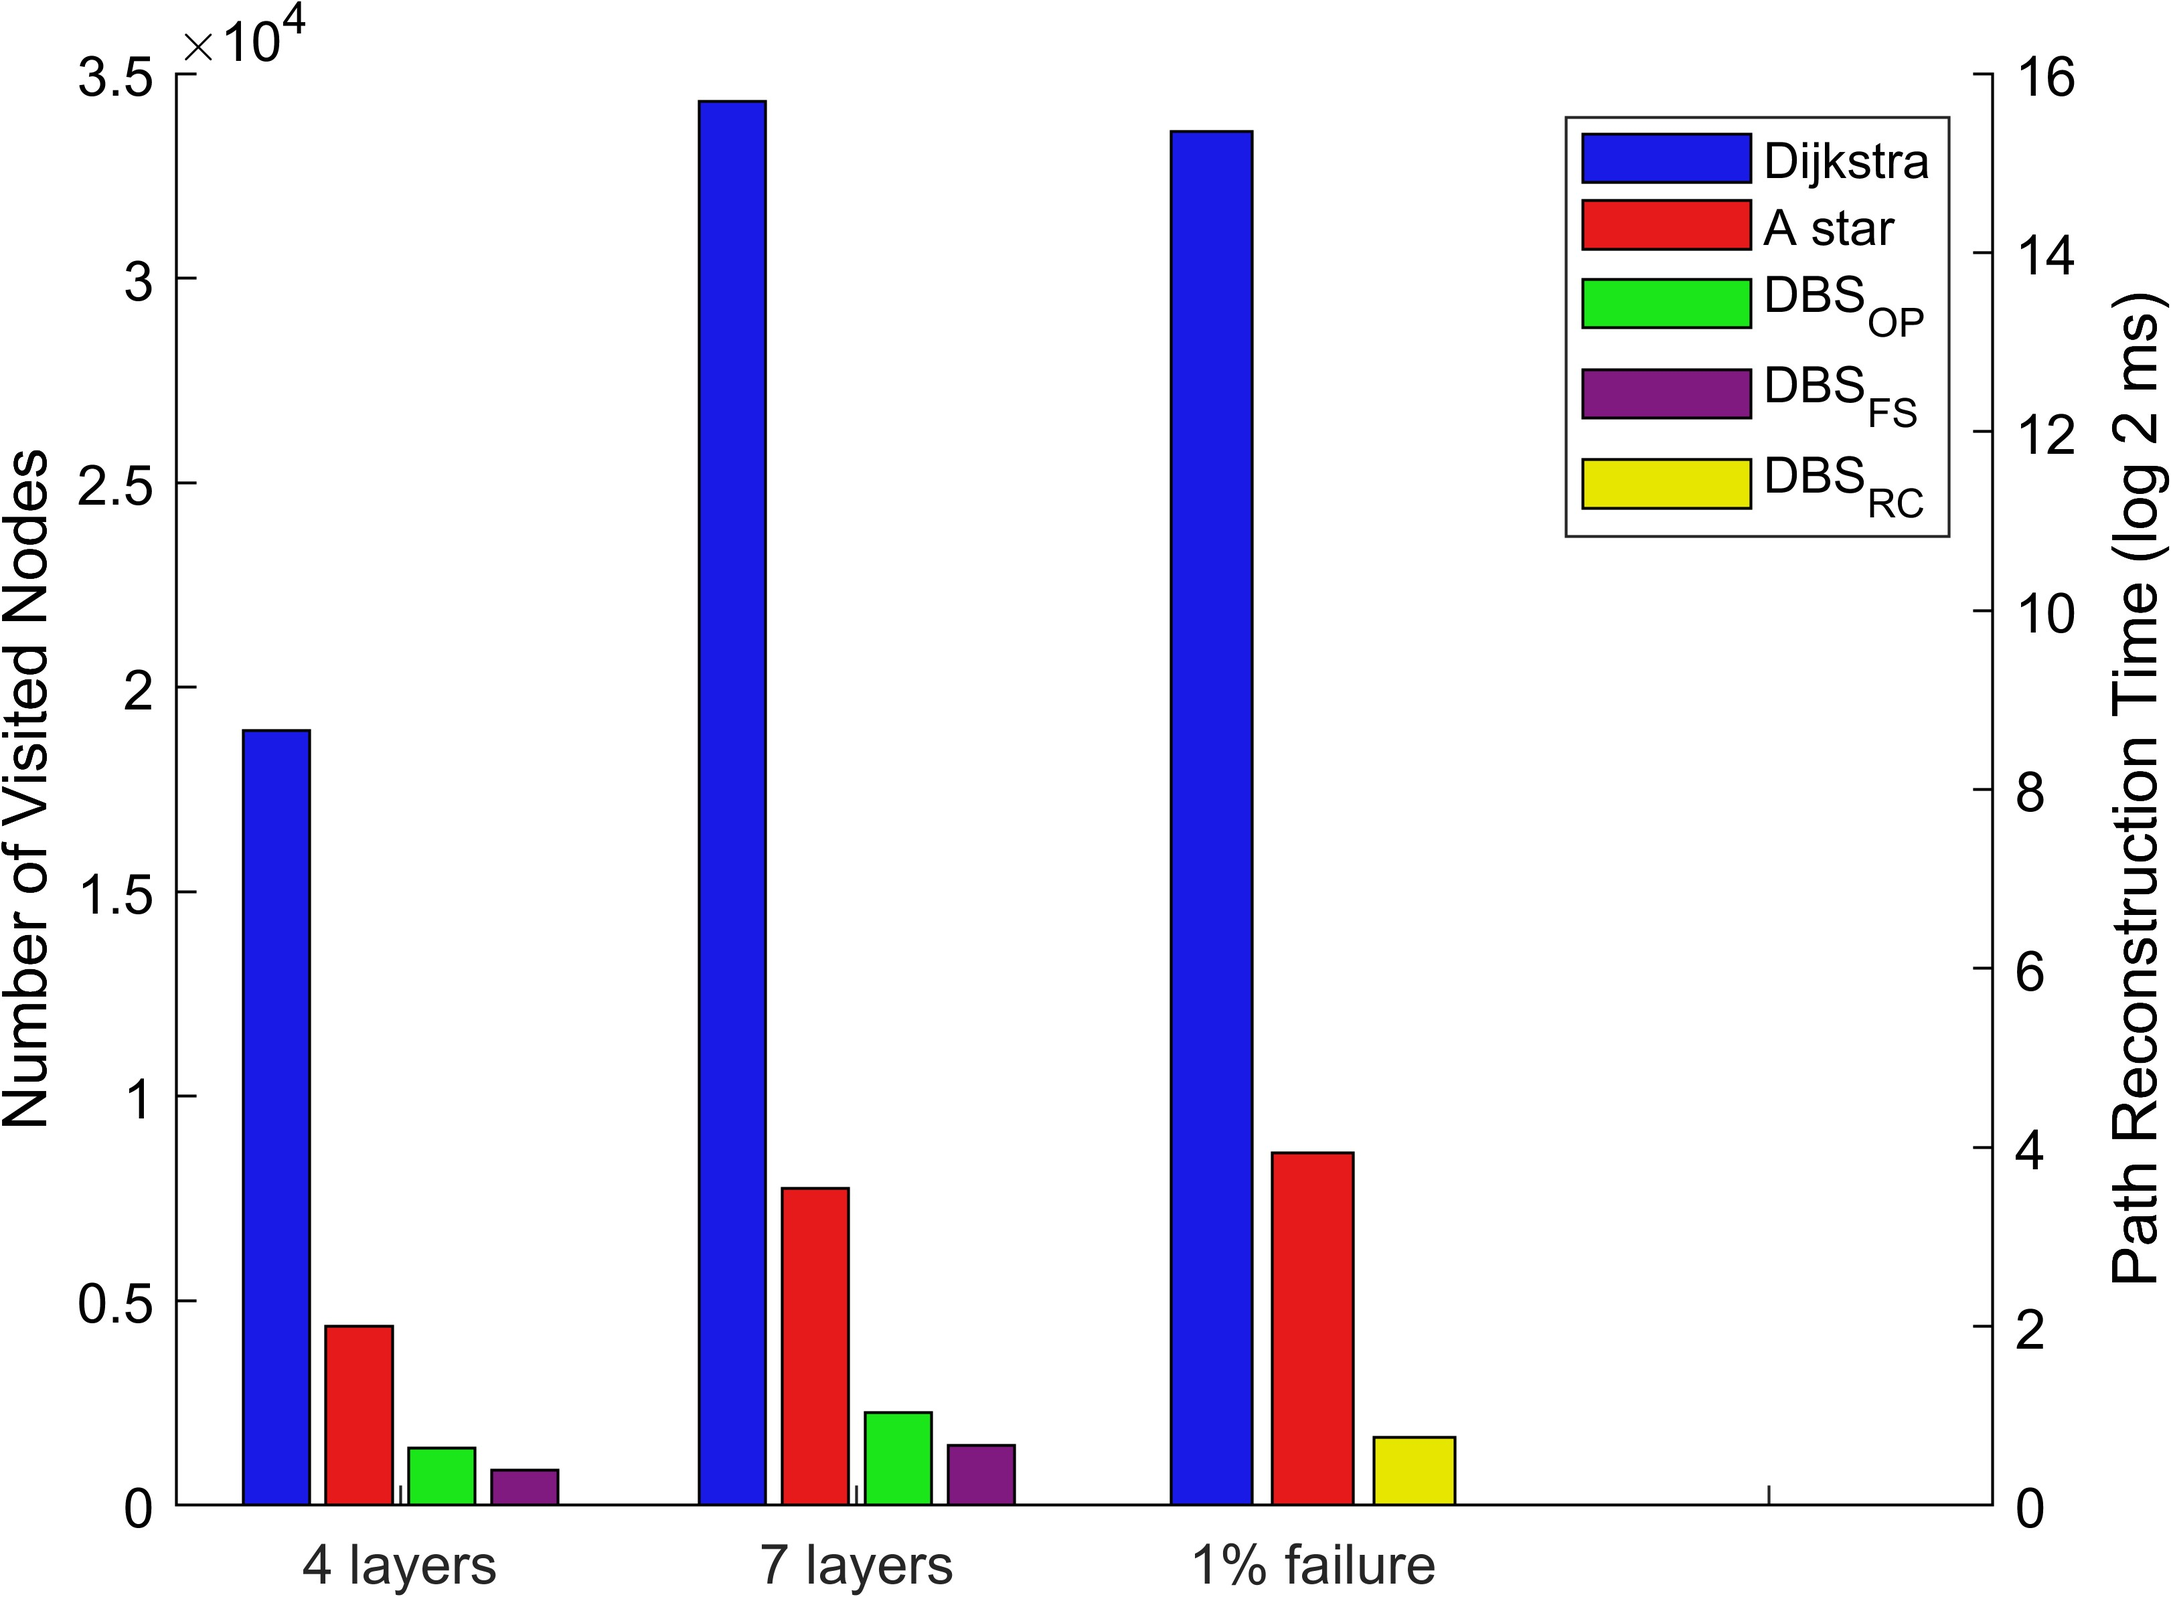
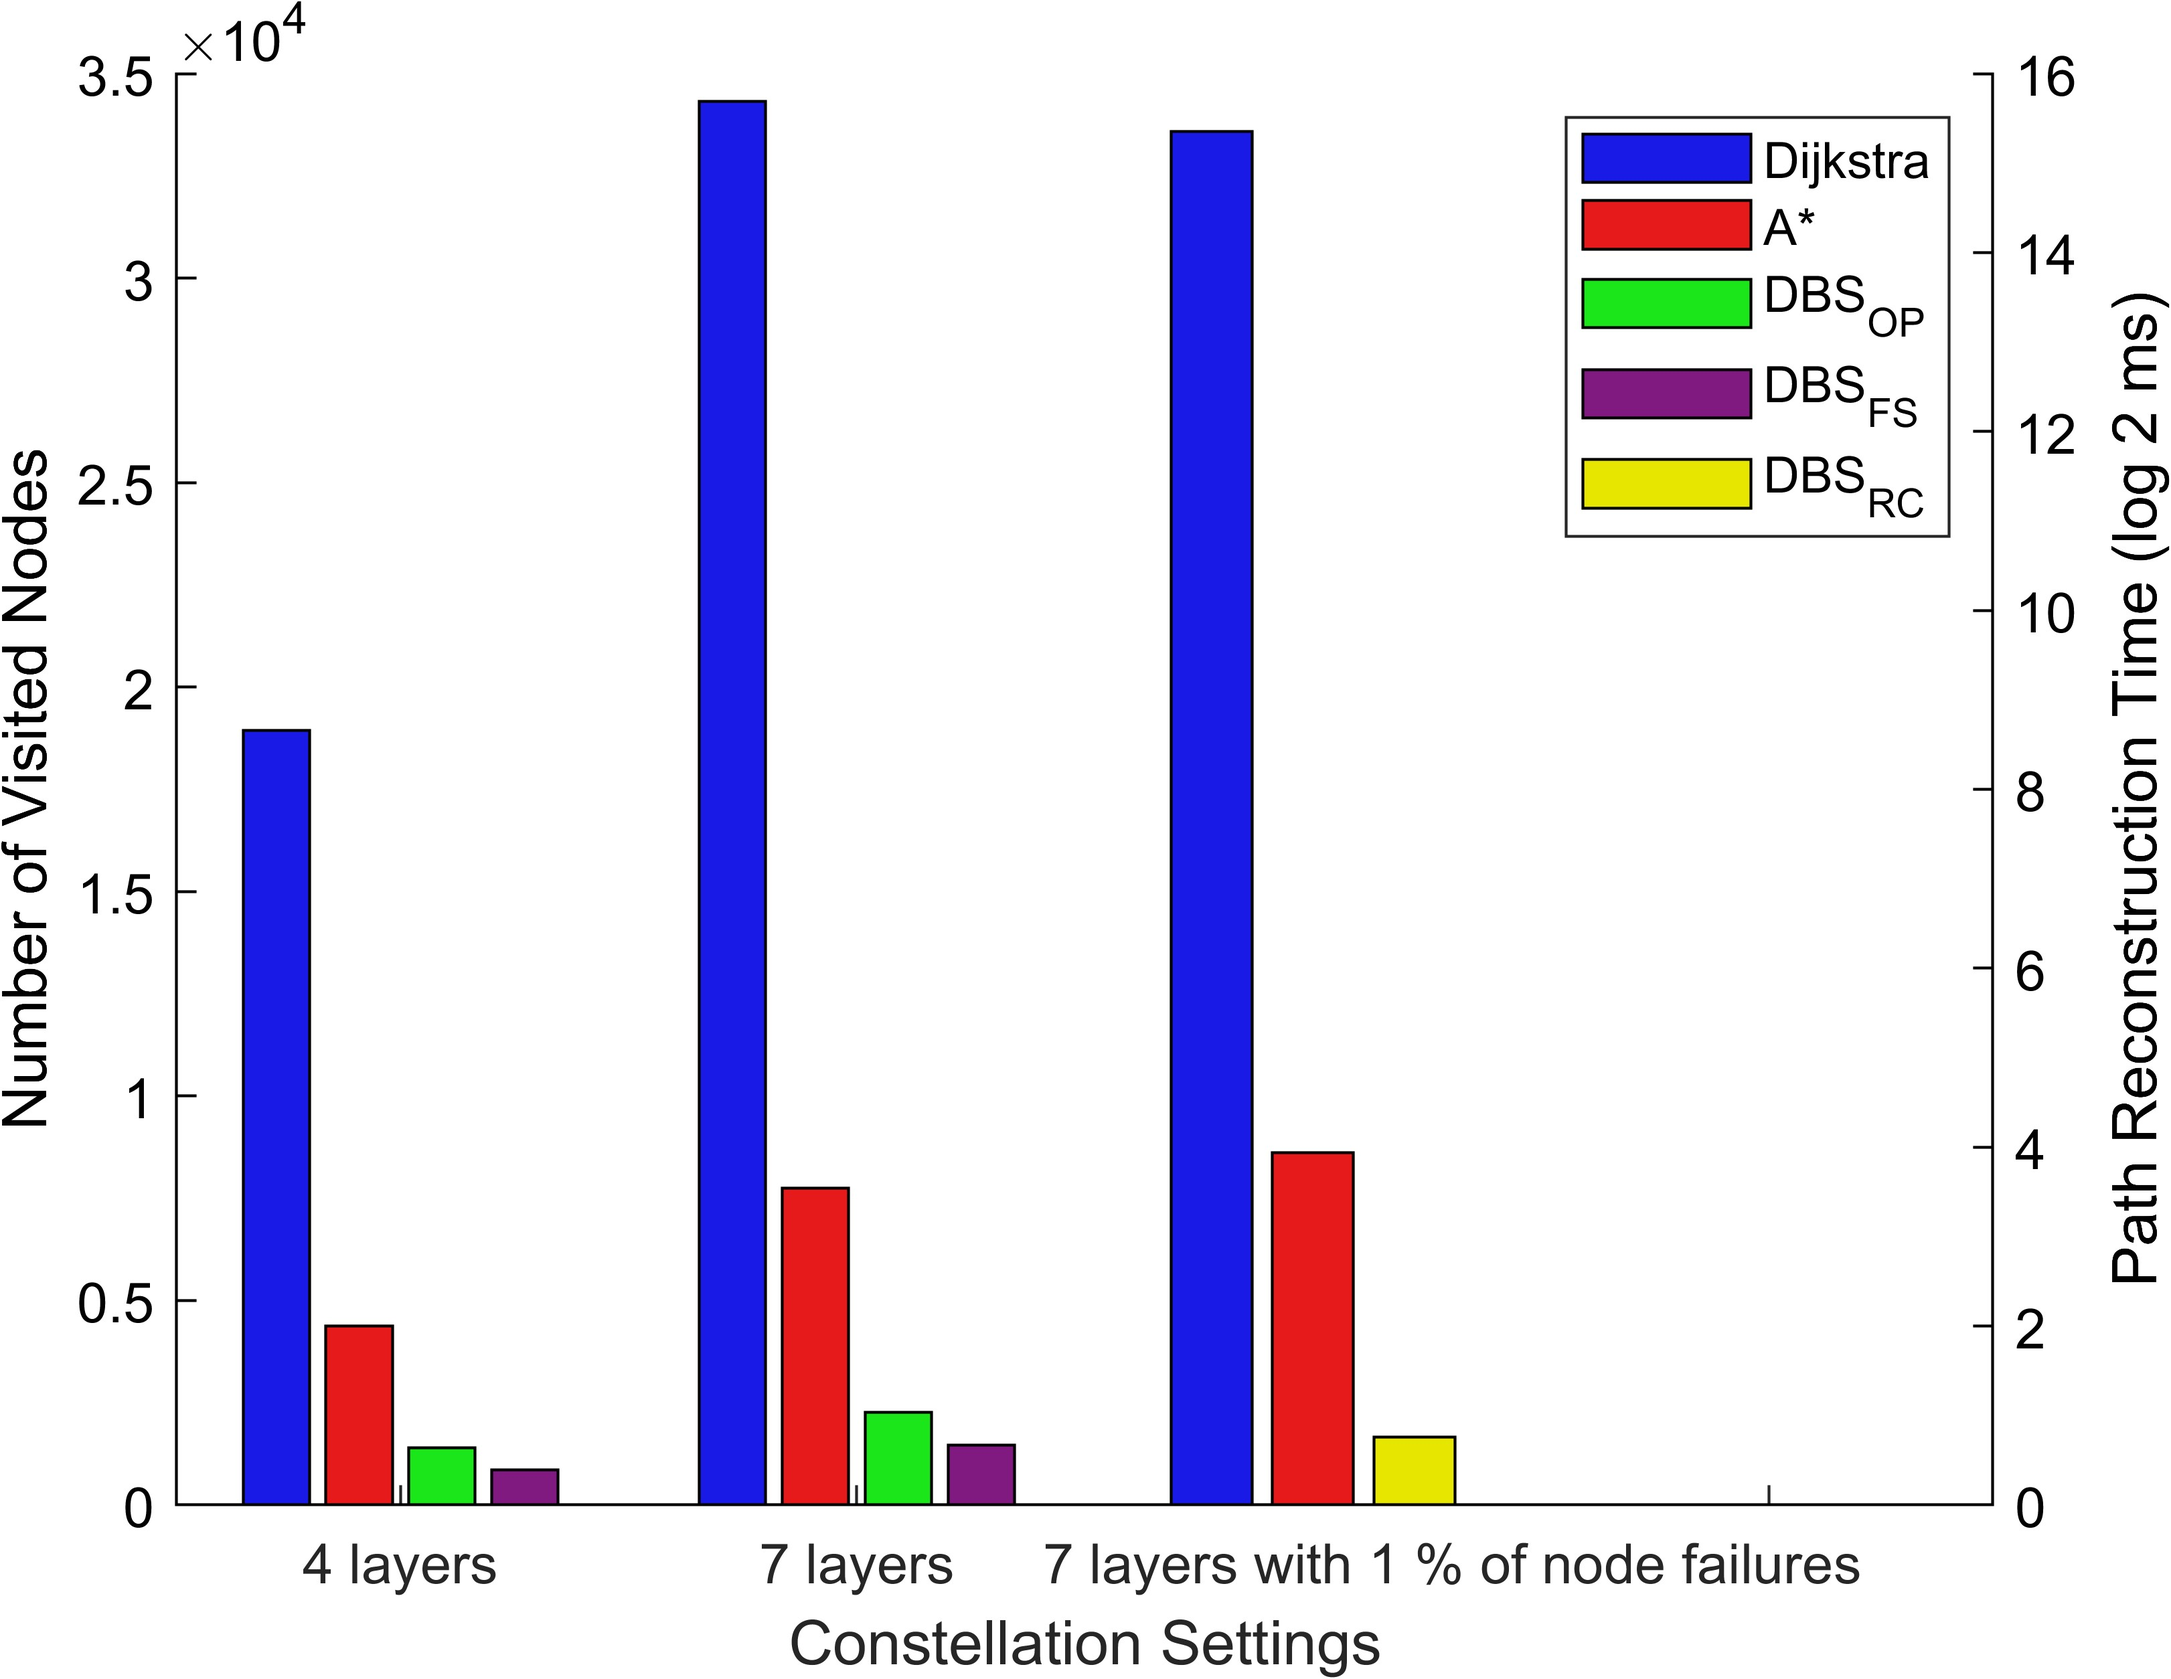
Meet mentor demands
change figure title, etc.

diff --git a/Dij_AStar.m b/Dij_AStar.m
@@ -66,39 +66,39 @@ n_sats = [1500, 1500, 1500, 2400, 750, 2500, 4500, 2400, 2700, 2460];
 n_sat_list = {};
 n_orbits = [75, 75, 75, 20, 25, 50, 25, 75, 30, 20];
 num_orbits = {};
-incs = [30, 30, 30, 75, 95.5, 70, 40, 48, 72, 120];
+incs = [50, 40, 30, 75, 95.5, 70, 40, 48, 72, 120];
 inclinations = {};
-gamma = 1e9;
-gammas = []; 
+gammas = [10^2, 10^3, 5 * 10^3, 10^4, 10^5];
 n_layers = length(alts);
 n_runs = n_layers;
 
 % set up other parameters
-% for i = 1:5
-%     orbit_altitude{i} = alts(1:10);
-%     n_sat_list{i} = n_sats(1:10);
-%     num_orbits{i} = n_orbits(1:10);
-%     inclinations{i} = incs(1:10);
-%     gammas(i) = 10^(i+6);
-% end
+low_layer = 1;
+max_layer = 3;
+for i = 1:5
+    orbit_altitude{i} = alts(low_layer:max_layer);
+    n_sat_list{i} = n_sats(low_layer:max_layer);
+    num_orbits{i} = n_orbits(low_layer:max_layer);
+    inclinations{i} = incs(low_layer:max_layer);
+end
 
 
 % structureness
-indices = {[6,7,8,9]};
+% indices = {[6,7,8,9]};
 
-for i = 1:length(indices)
-    orbit_altitude{i} = alts(indices{i});
-    n_sat_list{i} = n_sats(indices{i});
-    num_orbits{i} = n_orbits(indices{i});
-    inclinations{i} = incs(indices{i});
-    gammas(i) = gamma;
-end
+% for i = 1:length(indices)
+%     orbit_altitude{i} = alts(indices{i});
+%     n_sat_list{i} = n_sats(indices{i});
+%     num_orbits{i} = n_orbits(indices{i});
+%     inclinations{i} = incs(indices{i});
+%     gammas(i) = gamma;
+% end
 
 xlbl = "n layer";
 ylbl = "n visited";
 x_plot_axis = 1:5;
 x_tick_lbl = string(x_plot_axis);
-saved_prefix = 'saves/regular2_';
+saved_prefix = 'saves/gamma_FS_';
 what_to_plot = 'n_visited'; % either 'latency', 'elapsed_time', 'update_count' or 'n_visited'
 
 
@@ -196,7 +196,7 @@ New_York_3D = zeros(1, 3);
 %% main testing function
 
 % which alg. to test for
-xs = ["Dijkstra", "A star", "DBS_{OP}"];
+xs = ["DBS_{FS}"];
 N_item = length(xs);
 run_n = length(n_sat_list);
 

diff --git a/read_csv_and_plot.m b/read_csv_and_plot.m
@@ -27,24 +27,23 @@ M_RW_rc_time = readmatrix("saves/4-1_RW_rc_time.csv");
 % x_plot_axis = [0.2, 0.3, 0.4, 0.5]; % 3-1 battery-drained node ratio
 % x_tick_lbl = string(x_plot_axis);
 
-x_plot_axis = 1:6;
+x_plot_axis = 1:1;
 
-xs = ["Dijkstra", "A star", "DBS_{RC}"];
-% xs = ["Dijkstra", "A star", "DBS_{OP}", "DBS_{FS}"];
+% xs = ["Dijkstra", "A*", "DBS_{RC}"];
+xs = ["Dijkstra", "A*", "DBS_{OP}", "DBS_{FS}"];
 
 M_FS_time = log2(M_FS_time);
 M_RW_update_cnt = log2(M_RW_update_cnt);
 
-y_plot = [M_RC_time, M_RC_ratio_time] + 9;
+% y_plot = [M_RC_time, M_RC_ratio_time] + 9;
 
-
-% y_plot = zeros(length(xs), 1);
-% y_plot(:, 1) = [21021, 19783, 12948, 9400];
+y_plot = zeros(length(xs), 1);
+y_plot(:, 1) = [21021; 19783; 12948; 9400];
 
 % y_plot = zeros(length(xs), length(x_plot_axis));
 % for i=1:length(x_plot_axis)
 %     y_plot(:, i) = M_FS_time(:, x_plot_axis(i));
 % end
 
-x1 = 0; x2 = 25;
-plot_figure(x_plot_axis, y_plot, xs, [x1 x2], x1:5:x2, 'fig/pls_kill_me/batt_time.jpg');
+x1 = 9000; x2 = 22000; dx = 1000;
+plot_figure(x_plot_axis, y_plot, xs, [x1 x2], x1:dx:x2, 'fig/pls_kill_me/FS_visited.jpg');

diff --git a/utils/plot_two_fig.m b/utils/plot_two_fig.m
@@ -44,10 +44,14 @@ yyaxis left;
 % change left ylabel color to black
 ax.YAxis(1).Color = [0 0 0];
 xticks(x1);
-xticklabels(["4 layers", "7 layers", '1% failure', ''])
+% xticklabels(["4 layers", "7 layers", '7 layers with 1 % of node failures', ''])
+set(gca,'XTickLabel', {"4 layers", ...
+                        "7 layers",...
+                         '                  7 layers with 1 % of node failures', ''}) % modify tick label
 xtickangle(0);
 b1 = bar(x1, y1, 'Facecolor', 'flat'); % Grouped bars
 
+xlabel('Constellation Settings');
 ylabel('Number of Visited Nodes');
 
 clrs = {[.1, .1, .9], [.9, .1, .1], [.1, .9, .1], [.5, .1, .5], [.9, .9, .0]};
@@ -69,7 +73,7 @@ for k = 1:size(y2,1) - 1
 end
 b2(3).FaceColor = clrs{5};
 
-legend([b1, b2(:, 3)], {'Dijkstra', 'A star', 'DBS_{OP}', 'DBS_{FS}', 'DBS_{RC}'},...
+legend([b1, b2(:, 3)], {'Dijkstra', 'A*', 'DBS_{OP}', 'DBS_{FS}', 'DBS_{RC}'},...
                          'Location', 'northeast');
 
 hold off;

diff --git a/utils/plot_figure.m b/utils/plot_figure.m
@@ -8,11 +8,13 @@ function plot_figure(x, y, lgds, x_lim, x_ticks, saved_filename)
     yticks(x_ticks); %50:0.5:54);
     
     ylbl = "Number of Visited Nodes";
-    % xlabel("Number of Layers")
+    % ylbl = "Reconstruction Time (log2 ms)";
     ylabel(ylbl);
-    % xticklabels([""]);
-    xticklabels(["1", "3", "5",...
-                 "1%", "5%", "10%"]);
+    xticklabels([""]);
+    
+    % xlabel("Battery-drained Node Count")
+    % xticklabels(["1", "3", "5",...
+    %              "1%", "5%", "10%"]);
     legend(lgds, 'Location', 'northeast');
     
     n_bar = length(hb);
